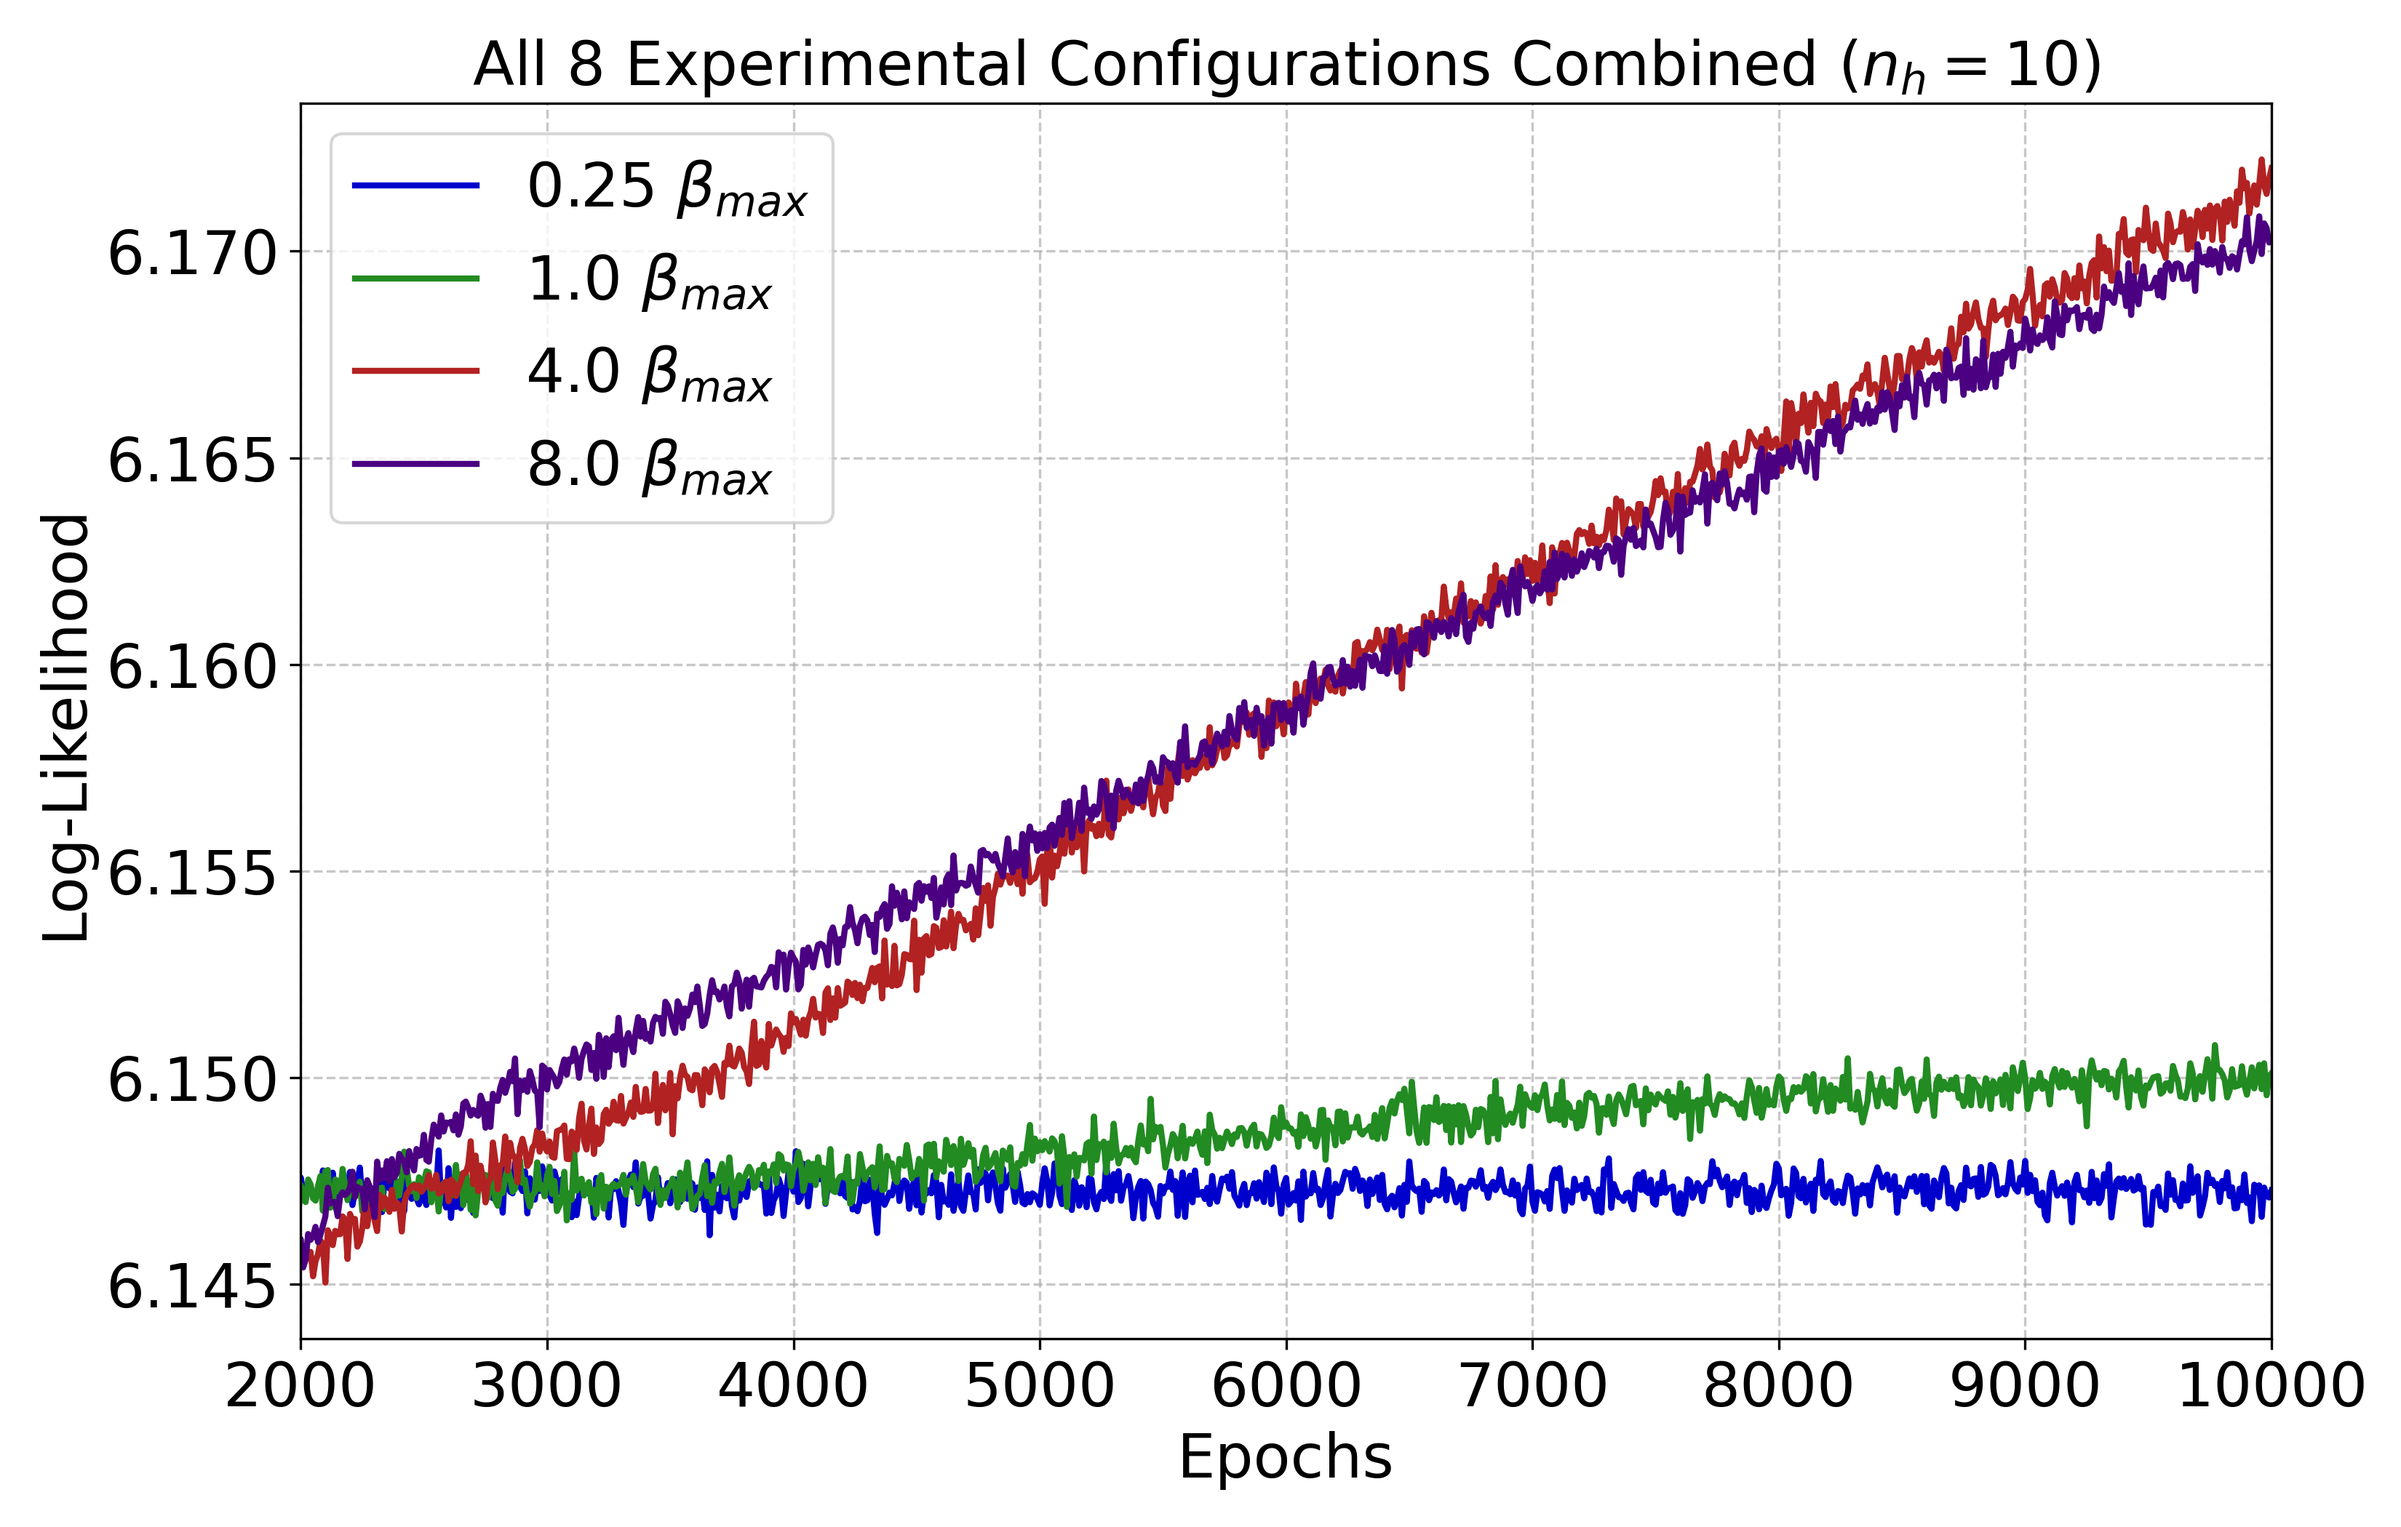
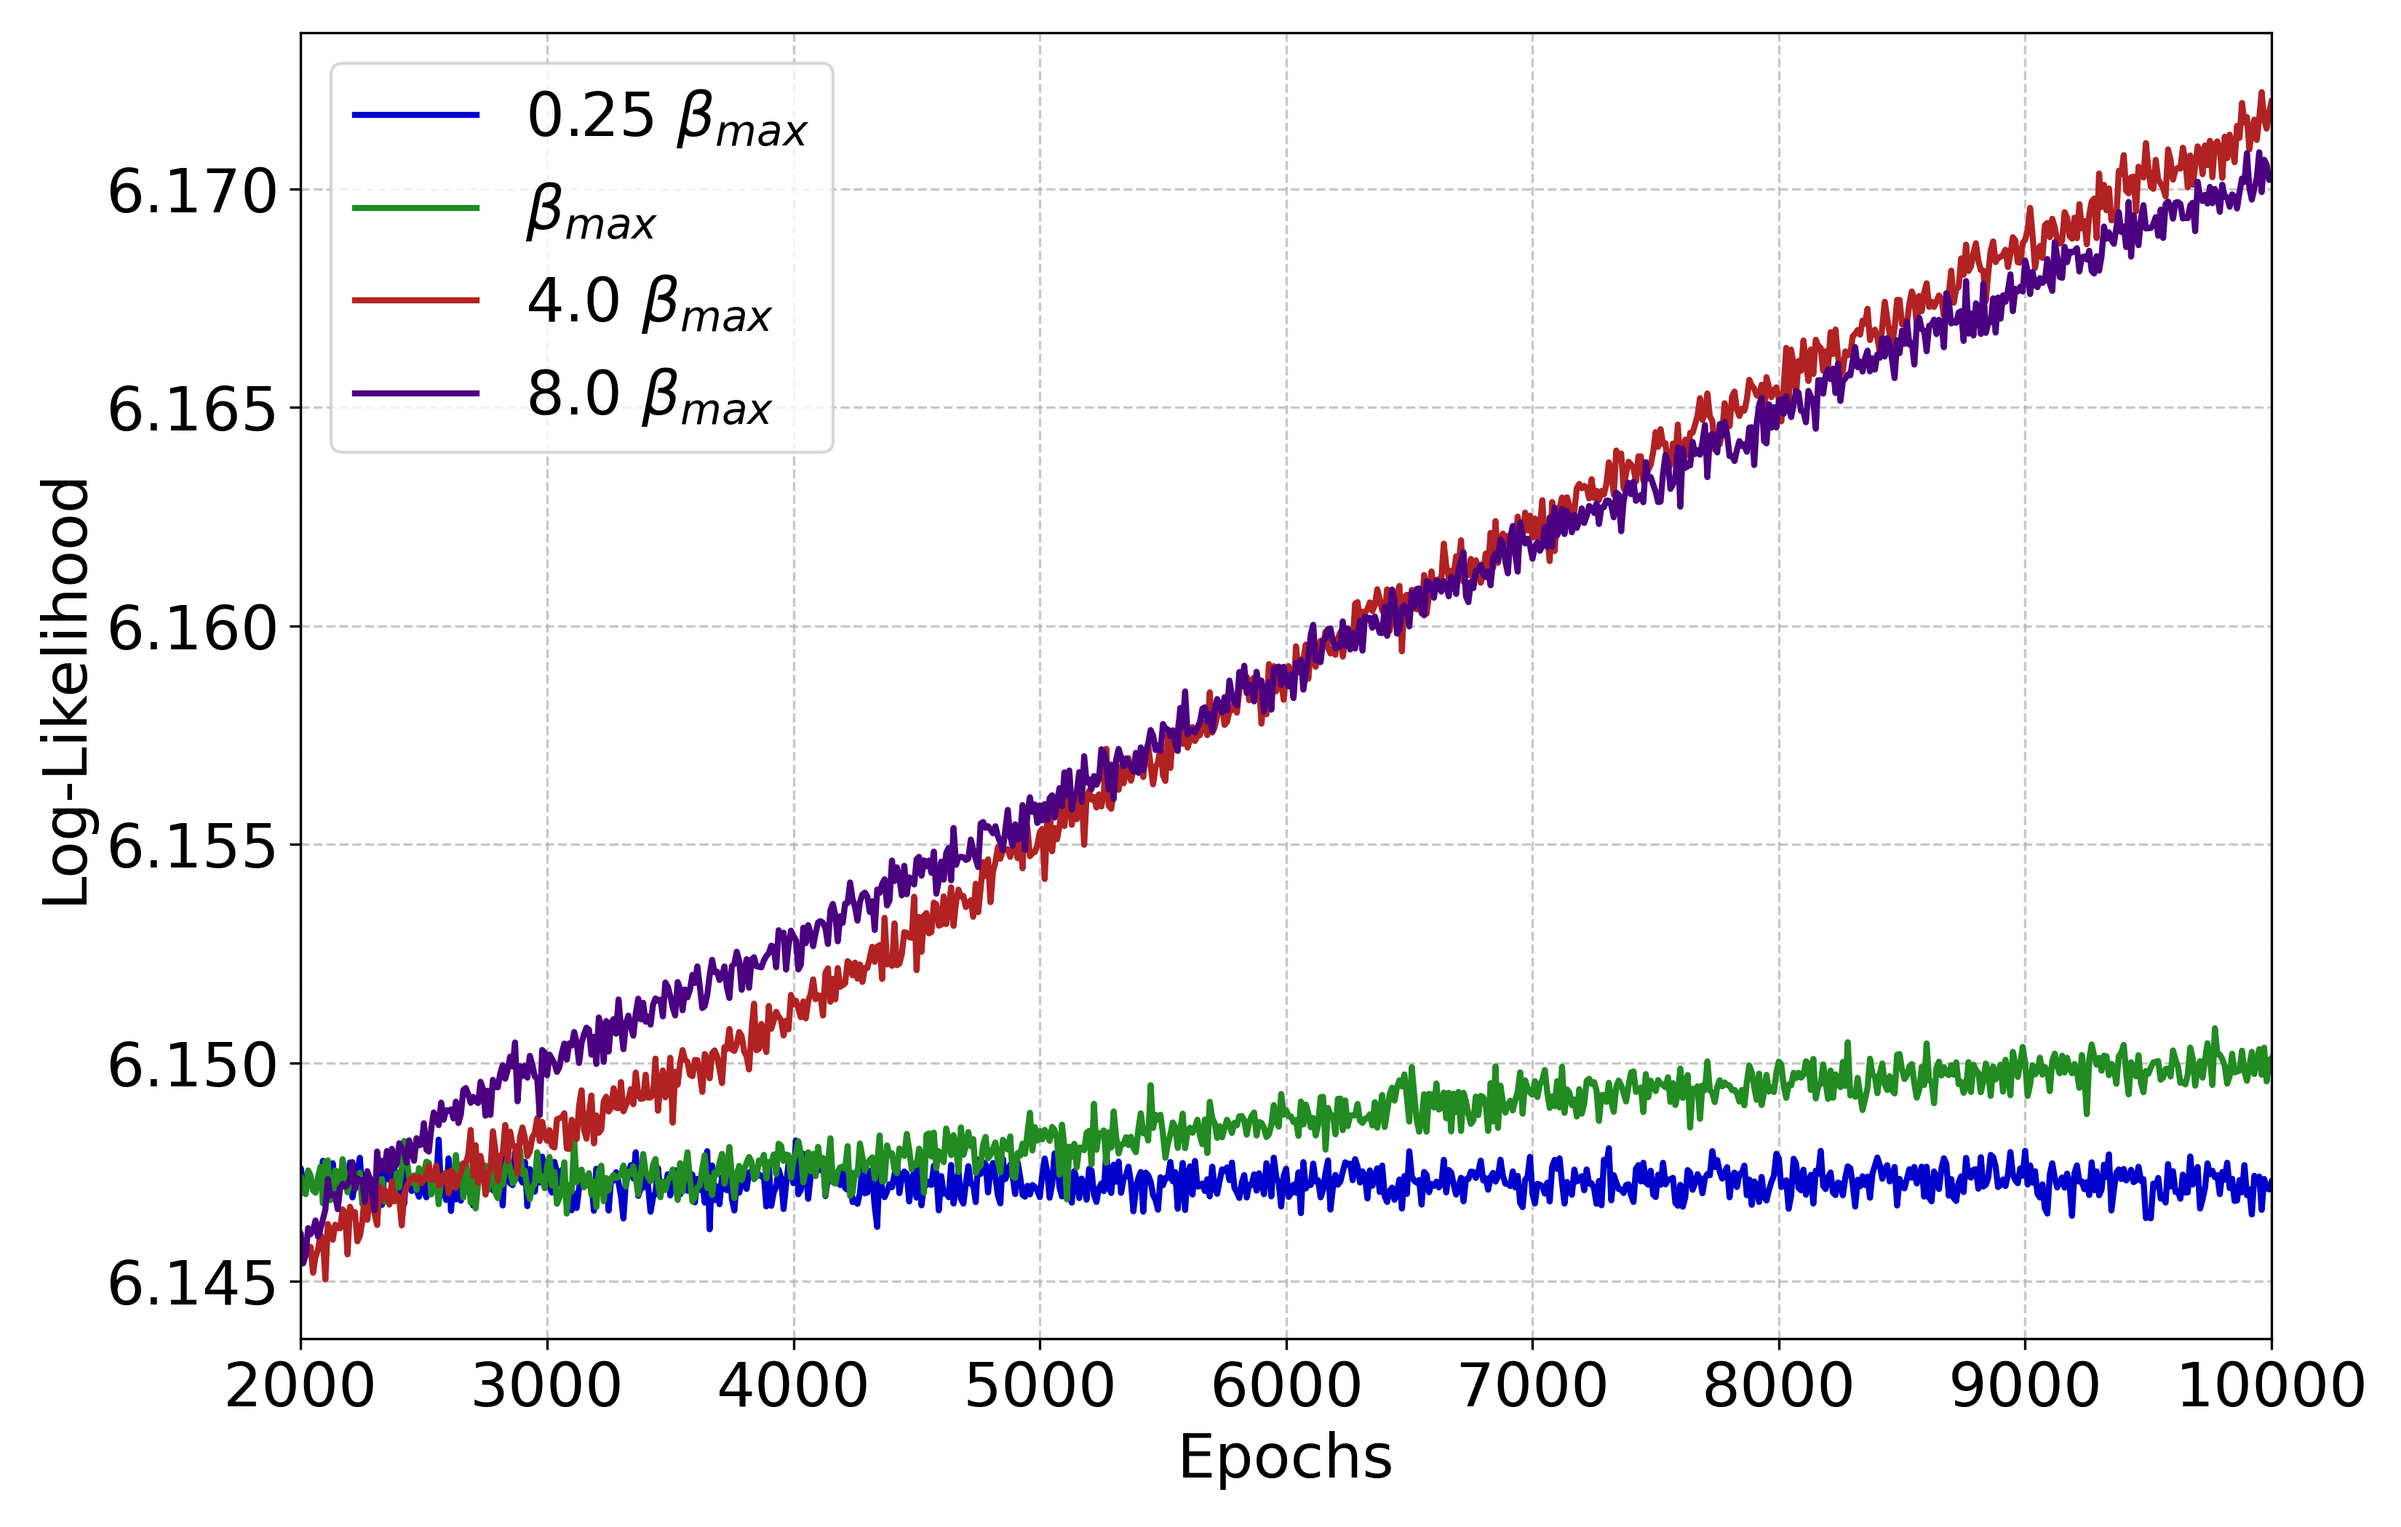
2026/6/21

diff --git a/training_GBRBM/alpha1/CPU_c0/visualize/plot_ll.py b/training_GBRBM/alpha1/CPU_c0/visualize/plot_ll.py
@@ -13,15 +13,15 @@ B_RATIOS = [0.25, 1.0, 4.0, 8.0] # 比較するリレーション倍率
 
 # 2. 表示範囲の指定設定 (4パターン対応)
 X_RANGE_MODE = 'range'     # 'all', 'from_start', 'to_end', 'range' の中から選択 
-X_START = 70              # from_start または range モードの開始エポック
-X_END = 300               # to_end または range モードの終了エポック
+X_START = 2000              # from_start または range モードの開始エポック
+X_END = 10000              # to_end または range モードの終了エポック
 Y_MARGIN = 0.05
 
 # 3. 凡例の配置設定 (可変)
 # loc: 凡例ボックスの基準位置 ('upper left', 'center right', 'best' など)
 # bbox: グラフ枠に対する相対座標 (x, y)。枠外に出す場合は (1.02, 0.5) のように指定。
 #       グラフ枠内に収める場合は None に設定。
-LEGEND_LOC = 'lower right' #lower right , upper left
+LEGEND_LOC = 'upper left' #lower right , upper left
 LEGEND_BBOX = None#(1.02, 0.5)  
 
 # 4. 標準偏差（誤差のシャドウ）の表示切り替え

diff --git a/plot_LC.py b/plot_LC.py
@@ -140,7 +140,7 @@ for ax, alpha in zip(axes, alpha_keys):
             ax.text(
                 b_peak, chi_peak * offset, 
                 rf"{b_peak:.7g}", color=color, ha="center", va="bottom", 
-                fontsize=FONT_SIZE*0.6, weight='bold'
+                fontsize=FONT_SIZE*1.2, weight='bold'
             )
 
             # --- χ 下落後の極小点 (Drop Bottom) ---
